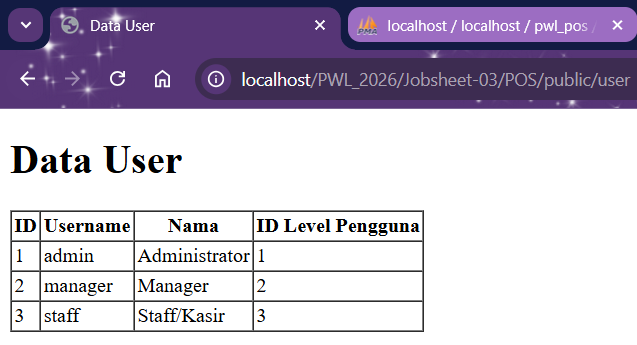
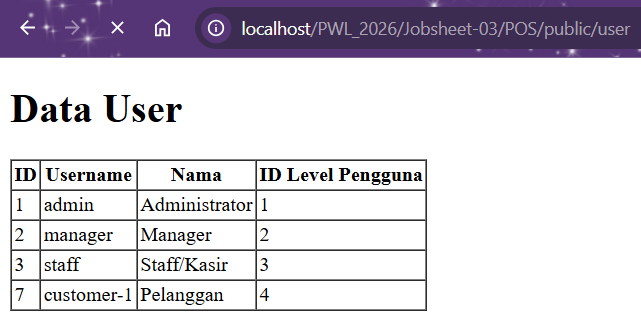
Modifikasi error di praktikum 6

diff --git a/Jobsheet-03/POS/database/seeders/LevelSeeder.php b/Jobsheet-03/POS/database/seeders/LevelSeeder.php
@@ -13,11 +13,12 @@ class LevelSeeder extends Seeder
      */
     public function run(): void
     {
-        $data = [
+        /*$data = [
             ['level_id' => 1, 'level_kode' => 'ADM', 'level_nama' => 'Administrator'],
             ['level_id' => 2, 'level_kode' => 'MNG', 'level_nama' => 'Manager'],
-            ['level_id' => 3, 'level_kode' => 'STF', 'level_nama' => 'Staff/Kasir'],
-
+            ['level_id' => 3, 'level_kode' => 'STF', 'level_nama' => 'Staff/Kasir'],*/
+        $data = [
+            ['level_id' => 4, 'level_kode' => 'CUS', 'level_nama' => 'Pelanggan'],
         ];
         DB::table('m_level')->insert($data);
     }

diff --git a/Jobsheet-03/POS/Jobsheet-03.md b/Jobsheet-03/POS/Jobsheet-03.md
@@ -62,7 +62,16 @@ Note: menampilkan data pada tabel User
 ![](img/28.png)
 Note: Data error, karena mencoba memasukkan data ke tabel m_user, tetapi nilai pada kolom level_id tidak ditemukan di tabel referensinya, yaitu m_level. Dan karena ID 4 tidak ada di tabel m_level, database menolak data tersebut untuk menjaga konsistensi data.
 
+### Solusi
+Menambahkan level 4 
+![](img/30.png)
+![](img/31.png)
+
+### Modifikasi UserController menggunakan Hash
 ![](img/29.png)
+
+### Update data UserController  
+![](img/32.png)
 
 ## PENUTUP
 1. Di dalam Laravel, APP_KEY digunakan untuk berbagai proses keamanan, terutama yang berhubungan dengan enkripsi dan keamanan data.
